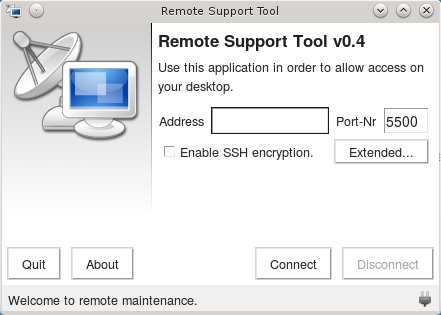
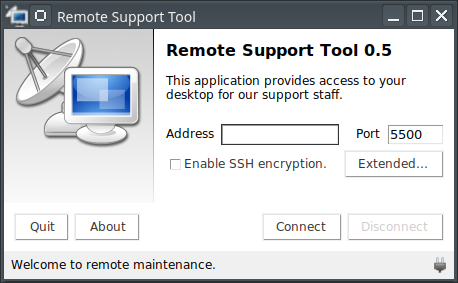
update project description

diff --git a/README.md b/README.md
@@ -1,59 +1,72 @@
 Remote Support Tool 0.5
 =======================
 
-*Remote Support Tool* is an easy single click solution for remote maintenance via 
-[VNC](https://en.wikipedia.org/wiki/Virtual_Network_Computing) inspired by 
-[UltraVNC Single Click](http://www.uvnc.com/products/uvnc-sc.html) and [Gitso](https://code.google.com/p/gitso/).
+*Remote Support Tool* is an easy single click solution for remote maintenance
+via [VNC](https://en.wikipedia.org/wiki/Virtual_Network_Computing) inspired by
+[UltraVNC Single Click](http://www.uvnc.com/products/uvnc-sc.html) and
+[Gitso](https://code.google.com/p/gitso/).
 
 
 About this program
 ------------------
 
-[Remote administration](https://en.wikipedia.org/wiki/Remote_administration) is common practice in software support for 
-end users. There are a lot of different solutions on the market, that can solve this task. But most of them are lacking 
+[Remote administration](https://en.wikipedia.org/wiki/Remote_administration) is
+common practice in software support for end users. There are a lot of different
+solutions on the market, that can solve this task. But most of them are lacking
 at least in one of these requirements:
 
--   The end user should be able to start the remote administration session with as less clicks as possible.
+-   The end user should be able to start the remote administration session with
+    as less clicks as possible.
 
-    -   No complex installation procedure should be required. The end user just has to download a single file and start 
-        it.
-    
-    -   The end user often sits behind a router / NAT and should not bother with port forwarding. On one hand this is 
-        quite complicated process for an end user and on the other hand it is a possible security risk to open local 
-        ports to the internet.
-    
+    -   No complex installation procedure should be required. The end user just
+        has to download a single file and start it.
+
+    -   The end user often sits behind a router / NAT and should not bother with
+        port forwarding. On one hand this is quite complicated process for an
+        end user and on the other hand it is a possible security risk to open
+        local ports to the internet.
+
 -   The remote maintenance session should be completely private and secure.
 
-    -   All transferred data has to be encrypted - especially when it is sent over the internet 
+    -   All transferred data has to be encrypted - especially when it is sent
+        over the internet
 
-    -   Most commercial solutions are initiating (or even routing) the traffic through their own servers. This can 
-        become a privacy problem - especially if the servers are located in countries with loose data privacy policies.
+    -   Most commercial solutions are initiating (or even routing) the traffic
+        through their own servers. This can become a privacy problem -
+        especially if the servers are located in countries with loose data
+        privacy policies.
 
 -   All major operating systems for desktop PC's should be supported.
 
 -   Support for different languages - because not all end users speak English.
 
-Because we did not find a solution that fits all of these requirements, we've decided to build our own little 
-application based on [VNC](https://en.wikipedia.org/wiki/Virtual_Network_Computing). In general this application behaves 
-similar to the [UltraVNC Single Click](http://www.uvnc.com/products/uvnc-sc.html) solution - but it also provides 
-encryption and supports Linux and Mac OS X.
+Because we did not find a solution that fits all of these requirements, we've
+decided to build our own little application based on
+[VNC](https://en.wikipedia.org/wiki/Virtual_Network_Computing). In general this
+application behaves similar to the
+[UltraVNC Single Click](http://www.uvnc.com/products/uvnc-sc.html) solution -
+but it also provides encryption and supports Linux and Mac OS X.
 
-In addition we wanted to make this program customizable for other companies. 
+In addition we wanted to make this program customizable for other companies.
 
--   A company may provide custom configuration files together with the executable binary.
+-   A company may provide custom configuration files together with the
+    executable binary.
 
--   A company may compile its configurations directly into the executable binary. This makes it possible to provide a 
-    single executable file for the end users, that contains all required configurations by default.
-    
-In both cases the end user just has to click the *Connect* button and does not have to change any settings.
+-   A company may compile its configurations directly into the executable
+    binary. This makes it possible to provide a single executable file for the
+    end users, that contains all required configurations by default.
+
+In both cases the end user just has to click the *Connect* button and does not
+have to change any settings.
 
 
 ### Application dialog
 
 ![application dialog](misc/screenshots/application-dialog.png)
 
-In the best case the end user will just have to click the *Connect* button. But maybe the support staff will have to 
-tell his IP address to the end user. Therefore the user will find the most basic settings directly in the application 
+In the best case the end user will just have to click the *Connect* button. But
+maybe the support staff will have to tell his IP address to the end user.
+Therefore the user will find the most basic settings directly in the application
 window.
 
 
@@ -61,56 +74,74 @@ window.
 
 ![extended settings dialog](misc/screenshots/settings-dialog.png)
 
-All relevant settings for a VNC reverse connection (tunneled through SSH) can be modified in the extended settings 
-dialog if necessary.
+All relevant settings for a VNC reverse connection (tunneled through SSH) can be
+modified in the extended settings dialog if necessary.
 
 
 Documentation
 -------------
 
-You can find documentations about *Remote Support Tool* in the 
+You can find documentations about *Remote Support Tool* in the
 [project wiki](https://github.com/OpenIndex/RemoteSupportTool/wiki).
 
 
-Bundled VNC servers
--------------------
+Bundled applications
+--------------------
 
-The following VNC servers are bundled into the application (depending on the operating system):
+The following applications are bundled into *Remote Support Tool* (depending on
+the operating system):
 
--   for Linux: [x11vnc](http://www.karlrunge.com/x11vnc/) (GPLv2)
-    -   using binaries from [sourceforge.net](http://sourceforge.net/projects/x11vnc/)
--   for Mac OS X 10.7+: [Vine server / OSXvnc](https://github.com/stweil/OSXvnc) (GPLv2) 
-    -   using binaries from [github.com](https://github.com/stweil/OSXvnc/releases)
--   for Windows: [TightVNC server](http://www.tightvnc.com/) (GPLv2)
-    -   using binaries from [tightvnc.com](http://www.tightvnc.com/download.php)
+-   for Linux
+
+    -   [x11vnc 0.9.13](http://www.karlrunge.com/x11vnc/) (GPLv2) created with
+        the [`build-x11vnc.tcl`](utils/build-x11vnc.tcl) script
+
+-   for Mac OS X (10.7+)
+
+    -   [OSXvnc 5.0.1](https://github.com/stweil/OSXvnc) (GPLv2) using binaries
+        from [github.com](https://github.com/stweil/OSXvnc/releases)
+
+-   for Windows (Vista and newer)
+
+    -   [TightVNC 2.8.5](http://www.tightvnc.com/) (GPLv2) using binaries from
+        [tightvnc.com](http://www.tightvnc.com/download.php)
+
+    -   [OpenSSH 7.4p1-1](https://www.openssh.com/) (BSD) using binaries from
+        [mls-software.com](https://www.mls-software.com/opensshd.html)
+
+-   for Windows (XP / 2003)
+
+    -   [TightVNC 2.8.5](http://www.tightvnc.com/) (GPLv2) using binaries from
+        [tightvnc.com](http://www.tightvnc.com/download.php)
+
+    -   [OpenSSH 7.3p1-2](https://www.openssh.com/) (BSD) using binaries from
+        [mls-software.com](https://www.mls-software.com/opensshd-old-cygwin.html)
 
 
-Third party components
-----------------------
+Bundled components
+------------------
 
 The following third party components are bundled into the application:
 
--   [Python](https://www.python.org/) (PSFL)
 -   [Tcl/Tk](http://www.tcl.tk/) (BSD)
--   [PyCrypto](http://www.pycrypto.org/) (Public Domain)
--   [Paramiko](http://www.paramiko.org/) (LGPL)
--   [Pillow](http://python-pillow.github.io/) (PIL)
--   [psutil](https://github.com/giampaolo/psutil) (BSD)
--   [NumPy](http://www.numpy.org/) (BSD)
-    (only used on Mac OS X)
--   [gettext-py-windows](https://launchpad.net/gettext-py-windows) (MIT)
-    (only used on Windows)
--   [Python for Windows Extensions](http://sourceforge.net/projects/pywin32/) (PSFL)
-    (only used on Windows)
+-   [inifile](https://github.com/tcltk/tcllib/tree/master/modules/inifile) (BSD)
+-   [scrolledframe](http://wiki.tcl.tk/9223) (Public Domain)
 -   [Crystal Clear Icons](http://www.everaldo.com/) (LGPL)
 
 
 Created with
 ------------
 
--   This repository can be opened directly as a project into 
-    [PyCharm Community Edition](https://www.jetbrains.com/pycharm/). But you can use any other Python IDE of course.
--   [PyInstaller](http://www.pyinstaller.org/) is used to create executable binaries for Windows, Mac OS X and Linux.
+-   A custom [Tclkit](http://wiki.tcl.tk/52) is used in order to create
+    application binaries. For each supported target system the Tclkit can be
+    found in the [`utils`](utils) folder.
+
+-   The Tclkits for Linux and Mac OS X were created with
+    [KitCreator](https://kitcreator.rkeene.org/) through the
+    [`build-x11vnc.tcl`](utils/build-tclkit.tcl) script.
+
+-   The Tclkit for Windows was created with KitCreator's
+    [Interactive Build System](http://kitcreator.rkeene.org/kitcreator).
 
 
 Supported operating systems
@@ -118,21 +149,24 @@ Supported operating systems
 
 -   Windows (XP or newer)
 -   Mac OS X (10.7 or newer)
--   Linux
+-   Linux (i386 / amd64)
 
 
 Translations
 ------------
 
-*Remote Support Tool* is developed in **English** and is already translated into **German** and **Italian**. The 
-[translation documentation](https://github.com/OpenIndex/RemoteSupportTool/wiki/Translation) contains informations 
-about how to translate the application for yourself.
+*Remote Support Tool* is developed in **English** and is already into
+**German** language. The
+[translation documentation](https://github.com/OpenIndex/RemoteSupportTool/wiki/Translation)
+contains informations about how to translate the application for yourself. Feel
+free to send your translation files to us.
 
 
 License
 -------
 
-This application is licensed under the terms of the [MIT License](http://opensource.org/licenses/MIT). Take a look at 
+This application is licensed under the terms of the
+[MIT License](http://opensource.org/licenses/MIT). Take a look at
 [`LICENSE.txt`](LICENSE.txt) for the license text.
 
 

diff --git a/CHANGELOG.md b/CHANGELOG.md
@@ -4,11 +4,23 @@ Changelog for Remote Support Tool
 0.5 (not released yet)
 ----------------------
 
+-   migrated from Python to Tcl/Tk
+-   replaced Paramiko with OpenSSH
+-   implemented a new build process based on Tclkit
+-   updated to OSXvnc 5.0.1, which should fix problems with Retina displays on
+    Mac OS X
+-   rebuild x11vnc, which should fix problems with a missing libxss library
+    on amd64 based Linux systems
+-   added some more options for GUI configuration via config.ini
+
+
 0.4.1 (10 Nov 2015)
 -------------------
 
--   translated into Italian (thanks to [Sjd-Risca](https://github.com/Sjd-Risca))
--   compatibility fixes for PyInstaller 3 (thanks to [Sjd-Risca](https://github.com/Sjd-Risca)) 
+-   translated into Italian
+    (thanks to [Sjd-Risca](https://github.com/Sjd-Risca))
+-   compatibility fixes for PyInstaller 3
+    (thanks to [Sjd-Risca](https://github.com/Sjd-Risca))
 -   rebuilt with PyInstaller 3 on all supported platforms
 
 0.4 (17 Jun 2015)
